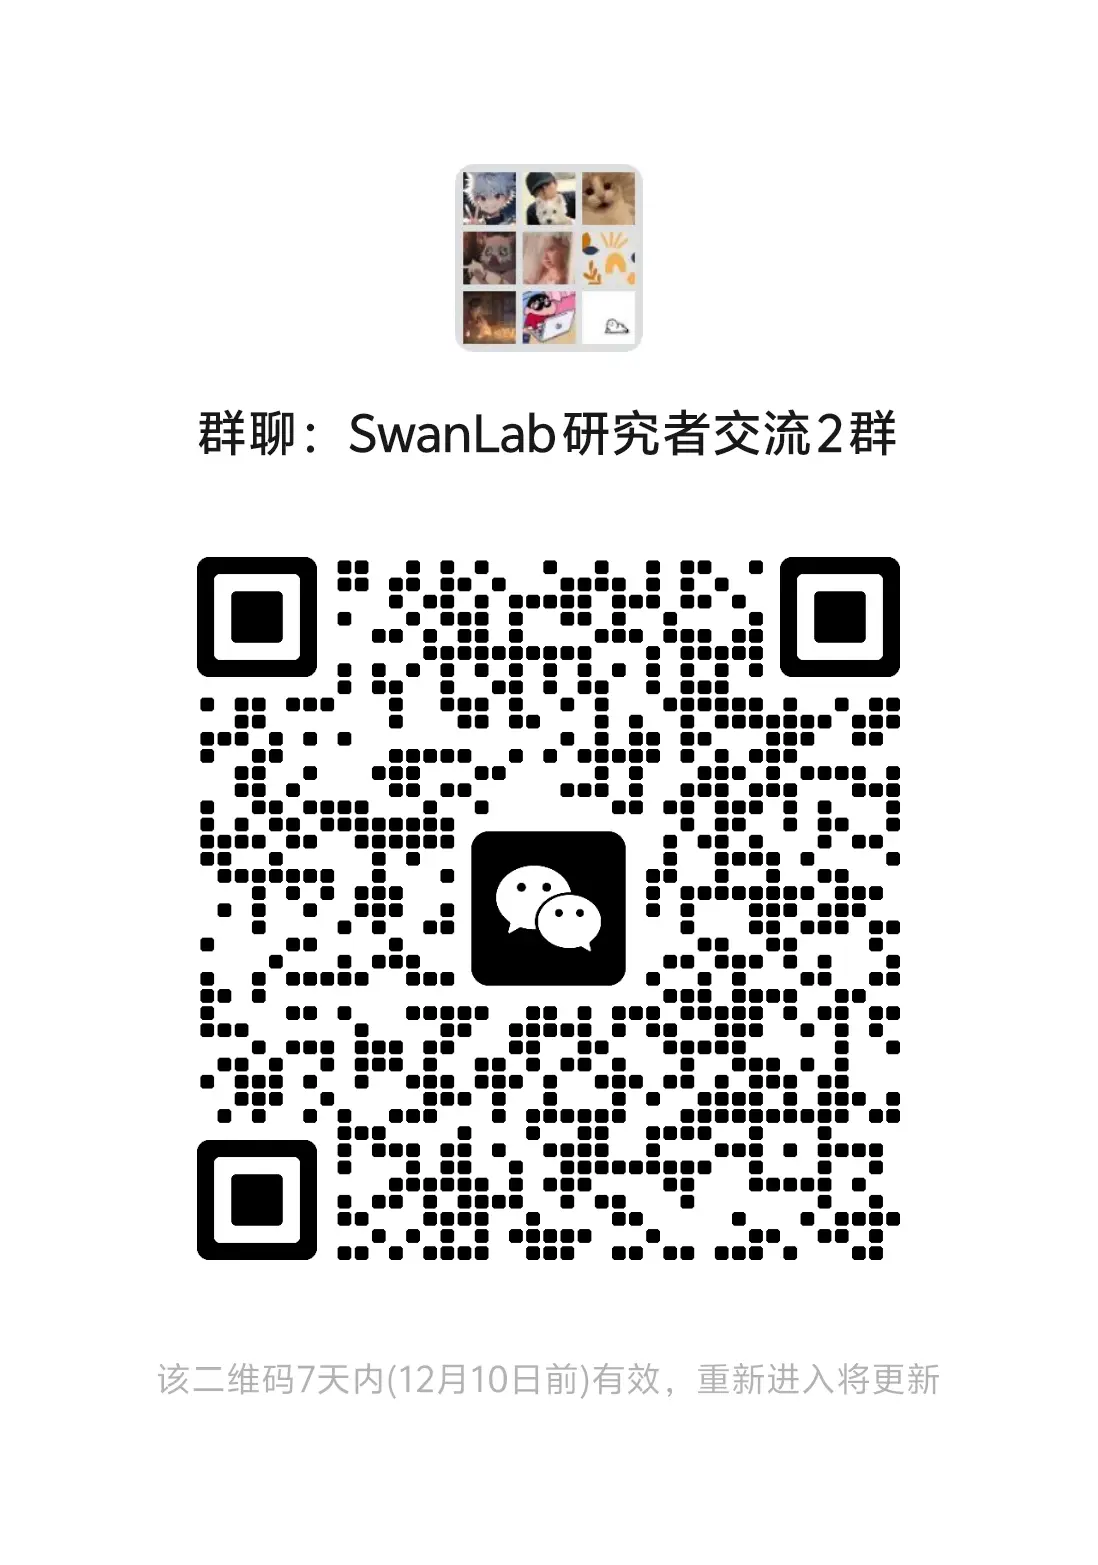
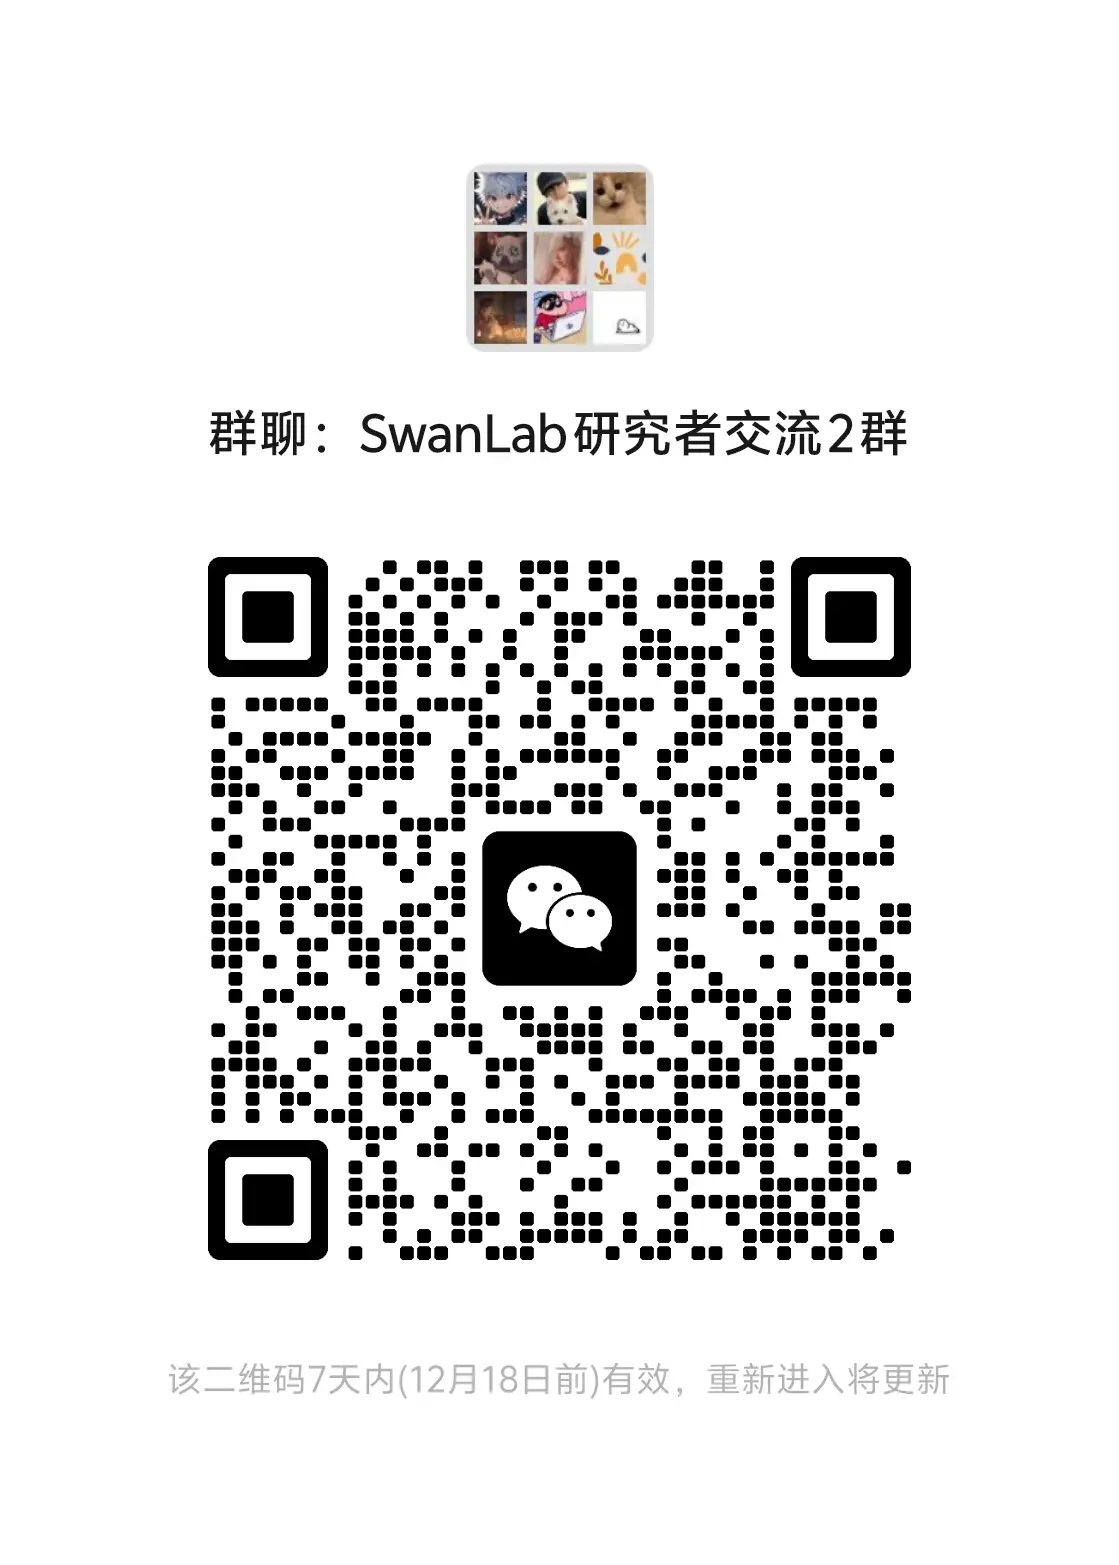
docs: update QR Code

diff --git a/zh/guide_cloud/community/online-support.md b/zh/guide_cloud/community/online-support.md
@@ -6,6 +6,8 @@
 
 <div align="center">
 <img src="/assets/wechat-QR-Code.png" width=300>
+
+![alt text](image.png)
 </div>
 
 - **飞书群**：我们的日常工作交流在飞书上，飞书群的回复会更及时。用飞书App扫描下方二维码即可：
